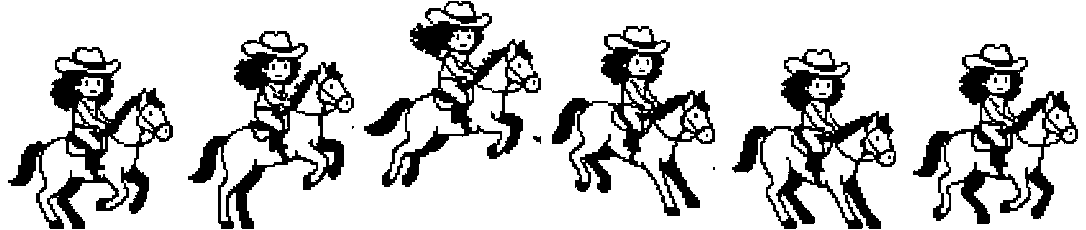
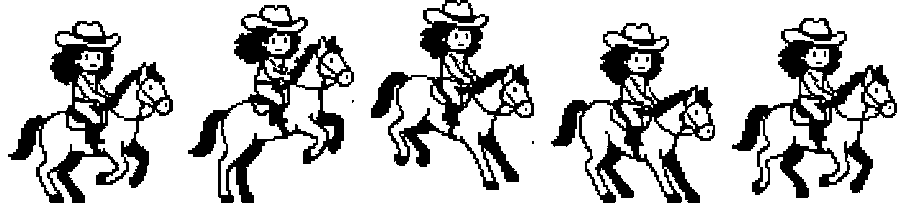
Work page ride: drop the leaping frame so the horse gallops without jumping (style.css v=146)
Claude-Session: https://claude.ai/code/session_01ReK3odpm4rKW9WZt4hQeYG

diff --git a/css/style.css b/css/style.css
@@ -2376,8 +2376,8 @@ a {
 .work-intro__copy { min-height: calc(220 * var(--u)); }
 
 /* Pixel cowgirl ride: Kyla's desert (her four background panels joined into one
-   990x263 strip) scrolls left on a seamless loop while her six horse frames
-   gallop in place on top. Keyframe names are work-only so they don't clash with
+   990x263 strip) scrolls left on a seamless loop while her horse frames
+   gallop in place on top (her leaping frame left out at her ask). Keyframe names are work-only so they don't clash with
    the Rodeo page's "ride". */
 .ride {
   position: relative;
@@ -2399,18 +2399,18 @@ a {
   position: absolute;
   left: 50%;
   bottom: 4%;
-  height: 72%;
-  aspect-ratio: 181 / 230;
+  height: 64%;
+  aspect-ratio: 181 / 203;
   transform: translateX(-50%);
-  background: url("../assets/images/work/ride-horse.png") 0 0 / 600% 100% no-repeat;
-  animation: ride-gallop 0.6s steps(6) infinite;
+  background: url("../assets/images/work/ride-horse.png") 0 0 / 500% 100% no-repeat;
+  animation: ride-gallop 0.5s steps(5) infinite;
 }
 
 @keyframes ride-scroll {
   to { transform: translateX(-50%); }
 }
 @keyframes ride-gallop {
-  to { background-position-x: 120%; }
+  to { background-position-x: 125%; }
 }
 
 @media (prefers-reduced-motion: reduce) {

diff --git a/index.html b/index.html
@@ -21,7 +21,7 @@
   <meta name="twitter:image" content="https://kylajoyner.com/assets/images/og-star.png">
   <!-- Adobe Fonts kit: West End + Narkiss Yair -->
   <link rel="stylesheet" href="https://use.typekit.net/ijs5kav.css">
-  <link rel="stylesheet" href="css/style.css?v=145">
+  <link rel="stylesheet" href="css/style.css?v=146">
 </head>
 <body>
   <header class="site-header">
@@ -45,7 +45,7 @@
          The cards start below it, so visitors scroll down to the work. -->
     <section class="work-intro">
       <div class="work-intro__copy"><!-- intro copy coming from Kyla --></div>
-      <!-- Kyla's pixel cowgirl ride: her six horse frames gallop over her scrolling desert -->
+      <!-- Kyla's pixel cowgirl ride: her horse frames gallop over her scrolling desert -->
       <div class="ride" role="img" aria-label="Pixel-art cowgirl galloping on horseback through the desert"><span class="ride__horse"></span></div>
     </section>
 

diff --git a/carolina-photojournalism-workshop.html b/carolina-photojournalism-workshop.html
@@ -21,7 +21,7 @@
   <meta name="twitter:image" content="https://kylajoyner.com/assets/images/og-star.png">
   <!-- Adobe Fonts kit: West End + Narkiss Yair -->
   <link rel="stylesheet" href="https://use.typekit.net/ijs5kav.css">
-  <link rel="stylesheet" href="css/style.css?v=145">
+  <link rel="stylesheet" href="css/style.css?v=146">
   <script>try{if(sessionStorage.getItem("slide-in"))document.documentElement.classList.add("slide-in")}catch(e){}</script>
 </head>
 <body>

diff --git a/daily-tar-heel.html b/daily-tar-heel.html
@@ -21,7 +21,7 @@
   <meta name="twitter:image" content="https://kylajoyner.com/assets/images/og-star.png">
   <!-- Adobe Fonts kit: West End + Narkiss Yair -->
   <link rel="stylesheet" href="https://use.typekit.net/ijs5kav.css">
-  <link rel="stylesheet" href="css/style.css?v=145">
+  <link rel="stylesheet" href="css/style.css?v=146">
   <script>try{if(sessionStorage.getItem("slide-in"))document.documentElement.classList.add("slide-in")}catch(e){}</script>
 </head>
 <body>

diff --git a/malama-maui.html b/malama-maui.html
@@ -21,7 +21,7 @@
   <meta name="twitter:image" content="https://kylajoyner.com/assets/images/og-star.png">
   <!-- Adobe Fonts kit: West End + Narkiss Yair -->
   <link rel="stylesheet" href="https://use.typekit.net/ijs5kav.css">
-  <link rel="stylesheet" href="css/style.css?v=145">
+  <link rel="stylesheet" href="css/style.css?v=146">
   <script>try{if(sessionStorage.getItem("slide-in"))document.documentElement.classList.add("slide-in")}catch(e){}</script>
 </head>
 <body>

diff --git a/old-spice-ad.html b/old-spice-ad.html
@@ -21,7 +21,7 @@
   <meta name="twitter:image" content="https://kylajoyner.com/assets/images/og-star.png">
   <!-- Adobe Fonts kit: West End + Narkiss Yair -->
   <link rel="stylesheet" href="https://use.typekit.net/ijs5kav.css">
-  <link rel="stylesheet" href="css/style.css?v=145">
+  <link rel="stylesheet" href="css/style.css?v=146">
   <script>try{if(sessionStorage.getItem("slide-in"))document.documentElement.classList.add("slide-in")}catch(e){}</script>
 </head>
 <body>

diff --git a/old-spice.html b/old-spice.html
@@ -21,7 +21,7 @@
   <meta name="twitter:image" content="https://kylajoyner.com/assets/images/og-star.png">
   <!-- Adobe Fonts kit: West End + Narkiss Yair -->
   <link rel="stylesheet" href="https://use.typekit.net/ijs5kav.css">
-  <link rel="stylesheet" href="css/style.css?v=145">
+  <link rel="stylesheet" href="css/style.css?v=146">
   <script>try{if(sessionStorage.getItem("slide-in"))document.documentElement.classList.add("slide-in")}catch(e){}</script>
 </head>
 <body>

diff --git a/unc-womens-basketball.html b/unc-womens-basketball.html
@@ -21,7 +21,7 @@
   <meta name="twitter:image" content="https://kylajoyner.com/assets/images/og-star.png">
   <!-- Adobe Fonts kit: West End + Narkiss Yair -->
   <link rel="stylesheet" href="https://use.typekit.net/ijs5kav.css">
-  <link rel="stylesheet" href="css/style.css?v=145">
+  <link rel="stylesheet" href="css/style.css?v=146">
   <script>try{if(sessionStorage.getItem("slide-in"))document.documentElement.classList.add("slide-in")}catch(e){}</script>
 </head>
 <body>

diff --git a/about.html b/about.html
@@ -21,7 +21,7 @@
   <meta name="twitter:image" content="https://kylajoyner.com/assets/images/og-star.png">
   <!-- Adobe Fonts kit: West End + Narkiss Yair -->
   <link rel="stylesheet" href="https://use.typekit.net/ijs5kav.css">
-  <link rel="stylesheet" href="css/style.css?v=145">
+  <link rel="stylesheet" href="css/style.css?v=146">
 </head>
 <body>
   <header class="site-header">

diff --git a/rodeo.html b/rodeo.html
@@ -21,7 +21,7 @@
   <meta name="twitter:image" content="https://kylajoyner.com/assets/images/og-star.png">
   <!-- Adobe Fonts kit: West End + Narkiss Yair -->
   <link rel="stylesheet" href="https://use.typekit.net/ijs5kav.css">
-  <link rel="stylesheet" href="css/style.css?v=145">
+  <link rel="stylesheet" href="css/style.css?v=146">
 </head>
 <body>
   <header class="site-header">
